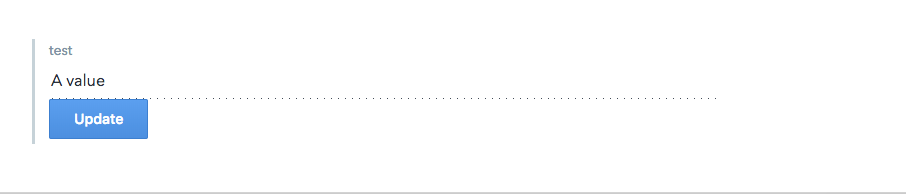
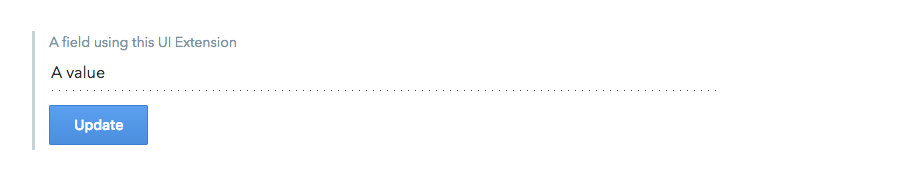
Updated the screenshot and added some styling

diff --git a/src/App.js b/src/App.js
@@ -43,7 +43,10 @@ class App extends Component {
           value={value}
           onChange={this.handleChangeValue}
         />
-        <button className="cf-btn-primary" onClick={this.handleClickUpdate}>
+        <button
+          className="update-button cf-btn-primary"
+          onClick={this.handleClickUpdate}
+        >
           Update
         </button>
       </div>

diff --git a/src/App.css b/src/App.css
@@ -1,0 +1,3 @@
+.update-button {
+  margin-top: 1em;
+}
